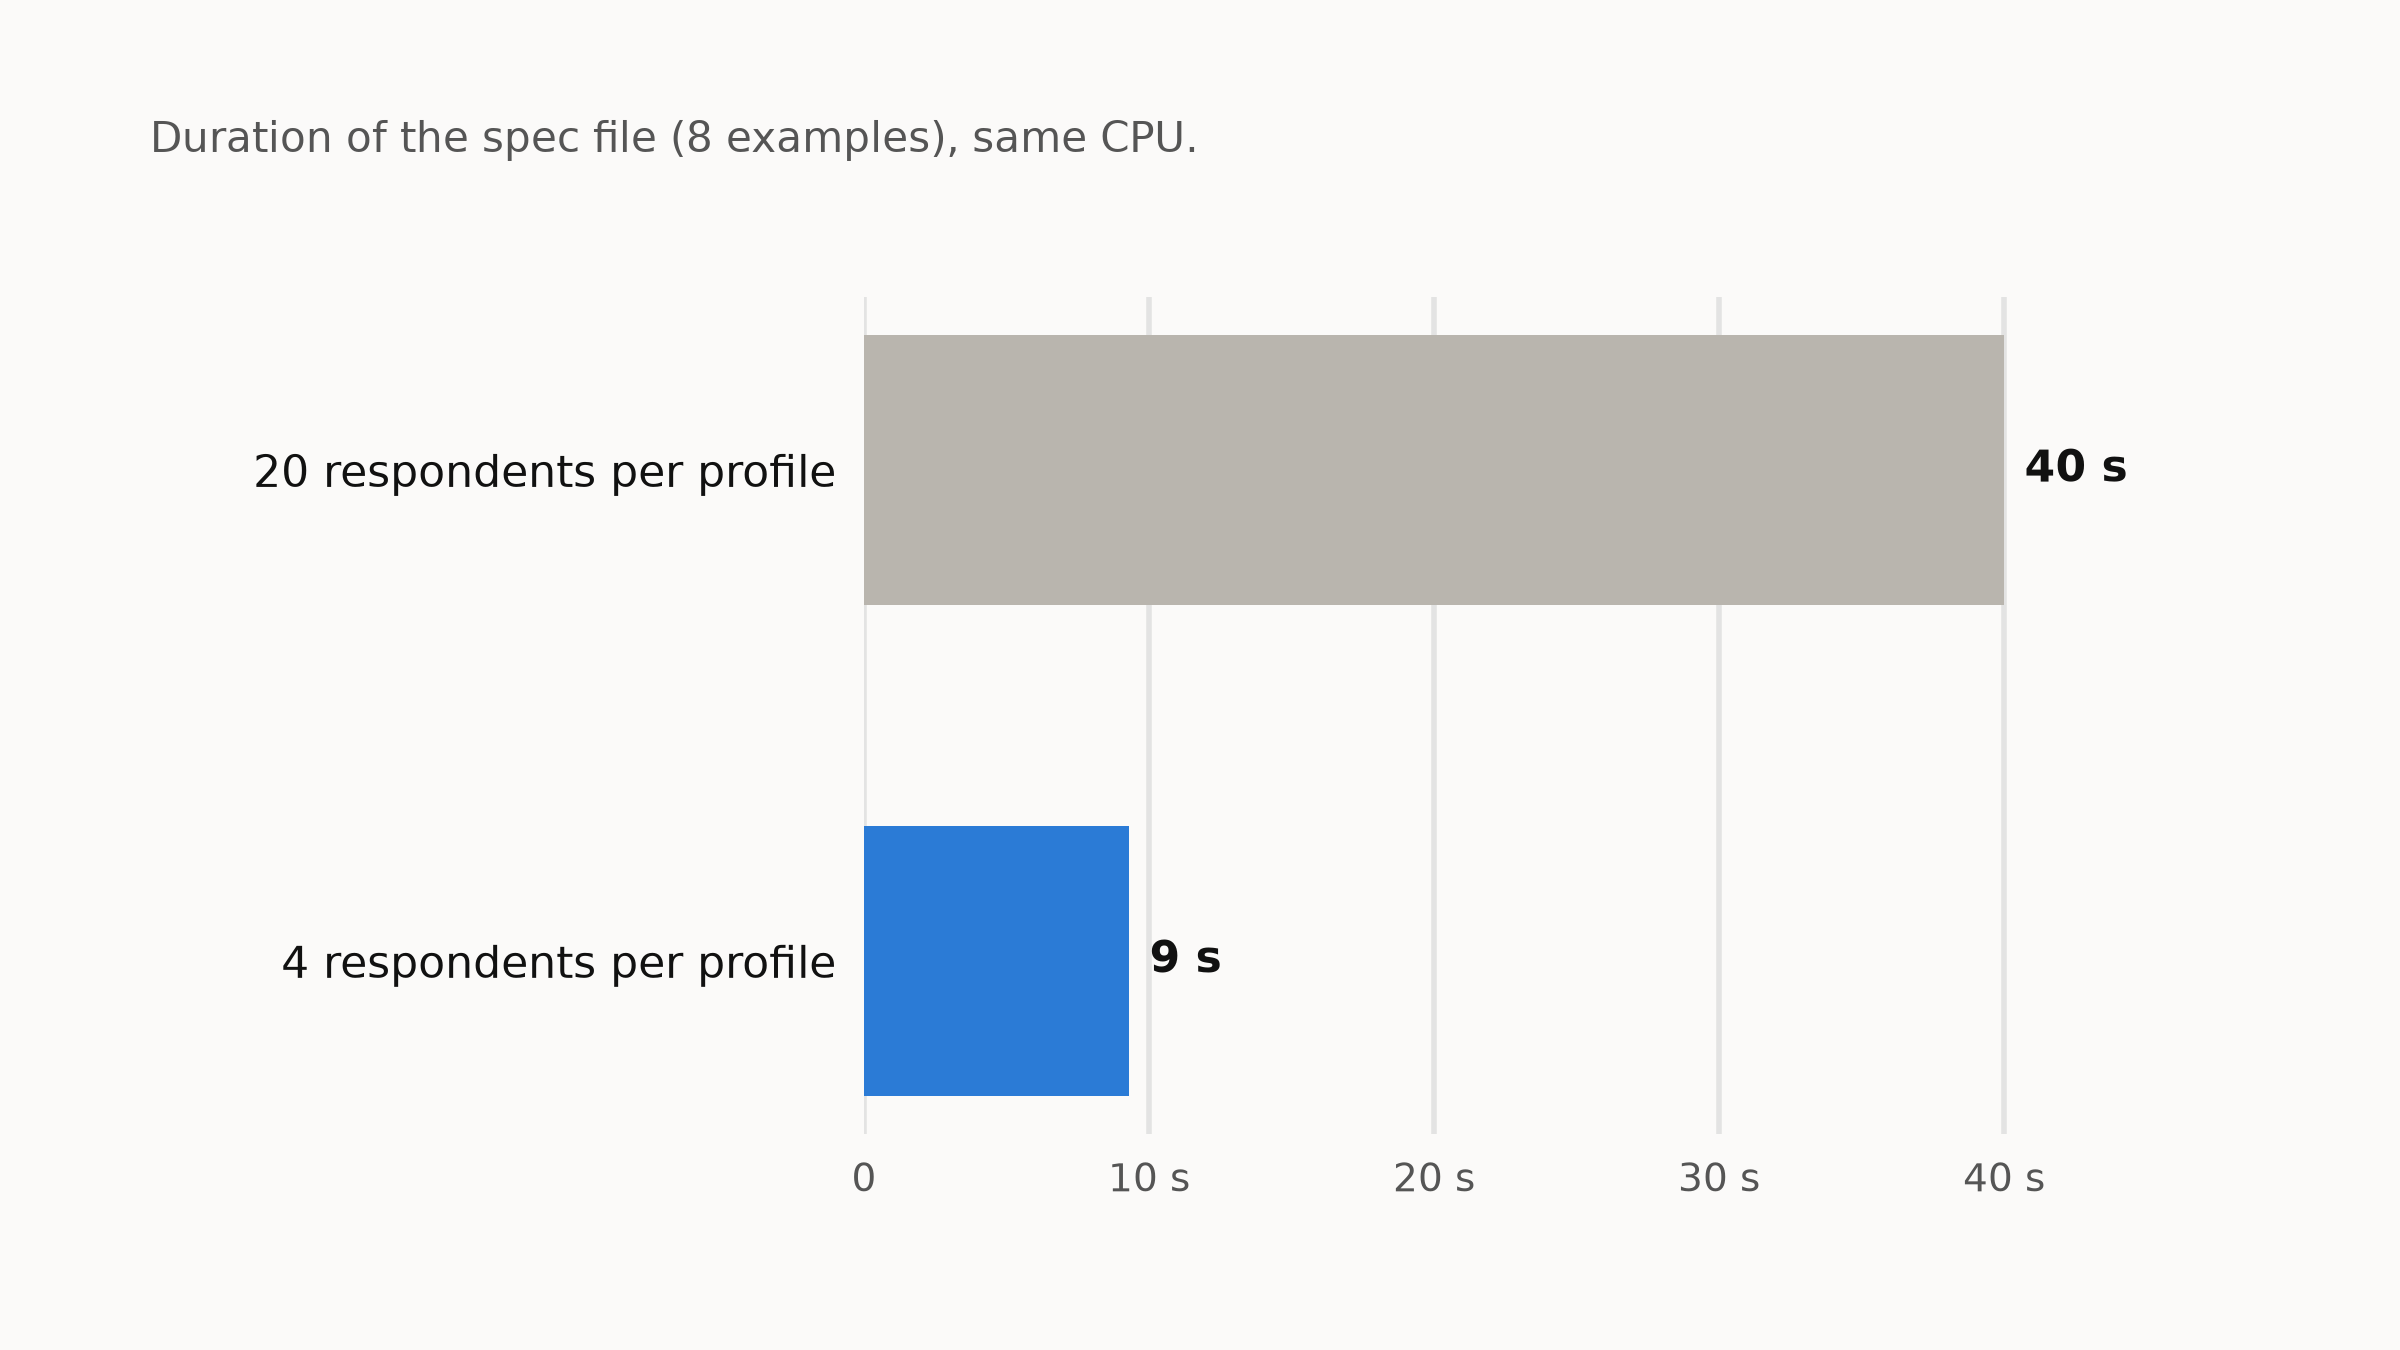
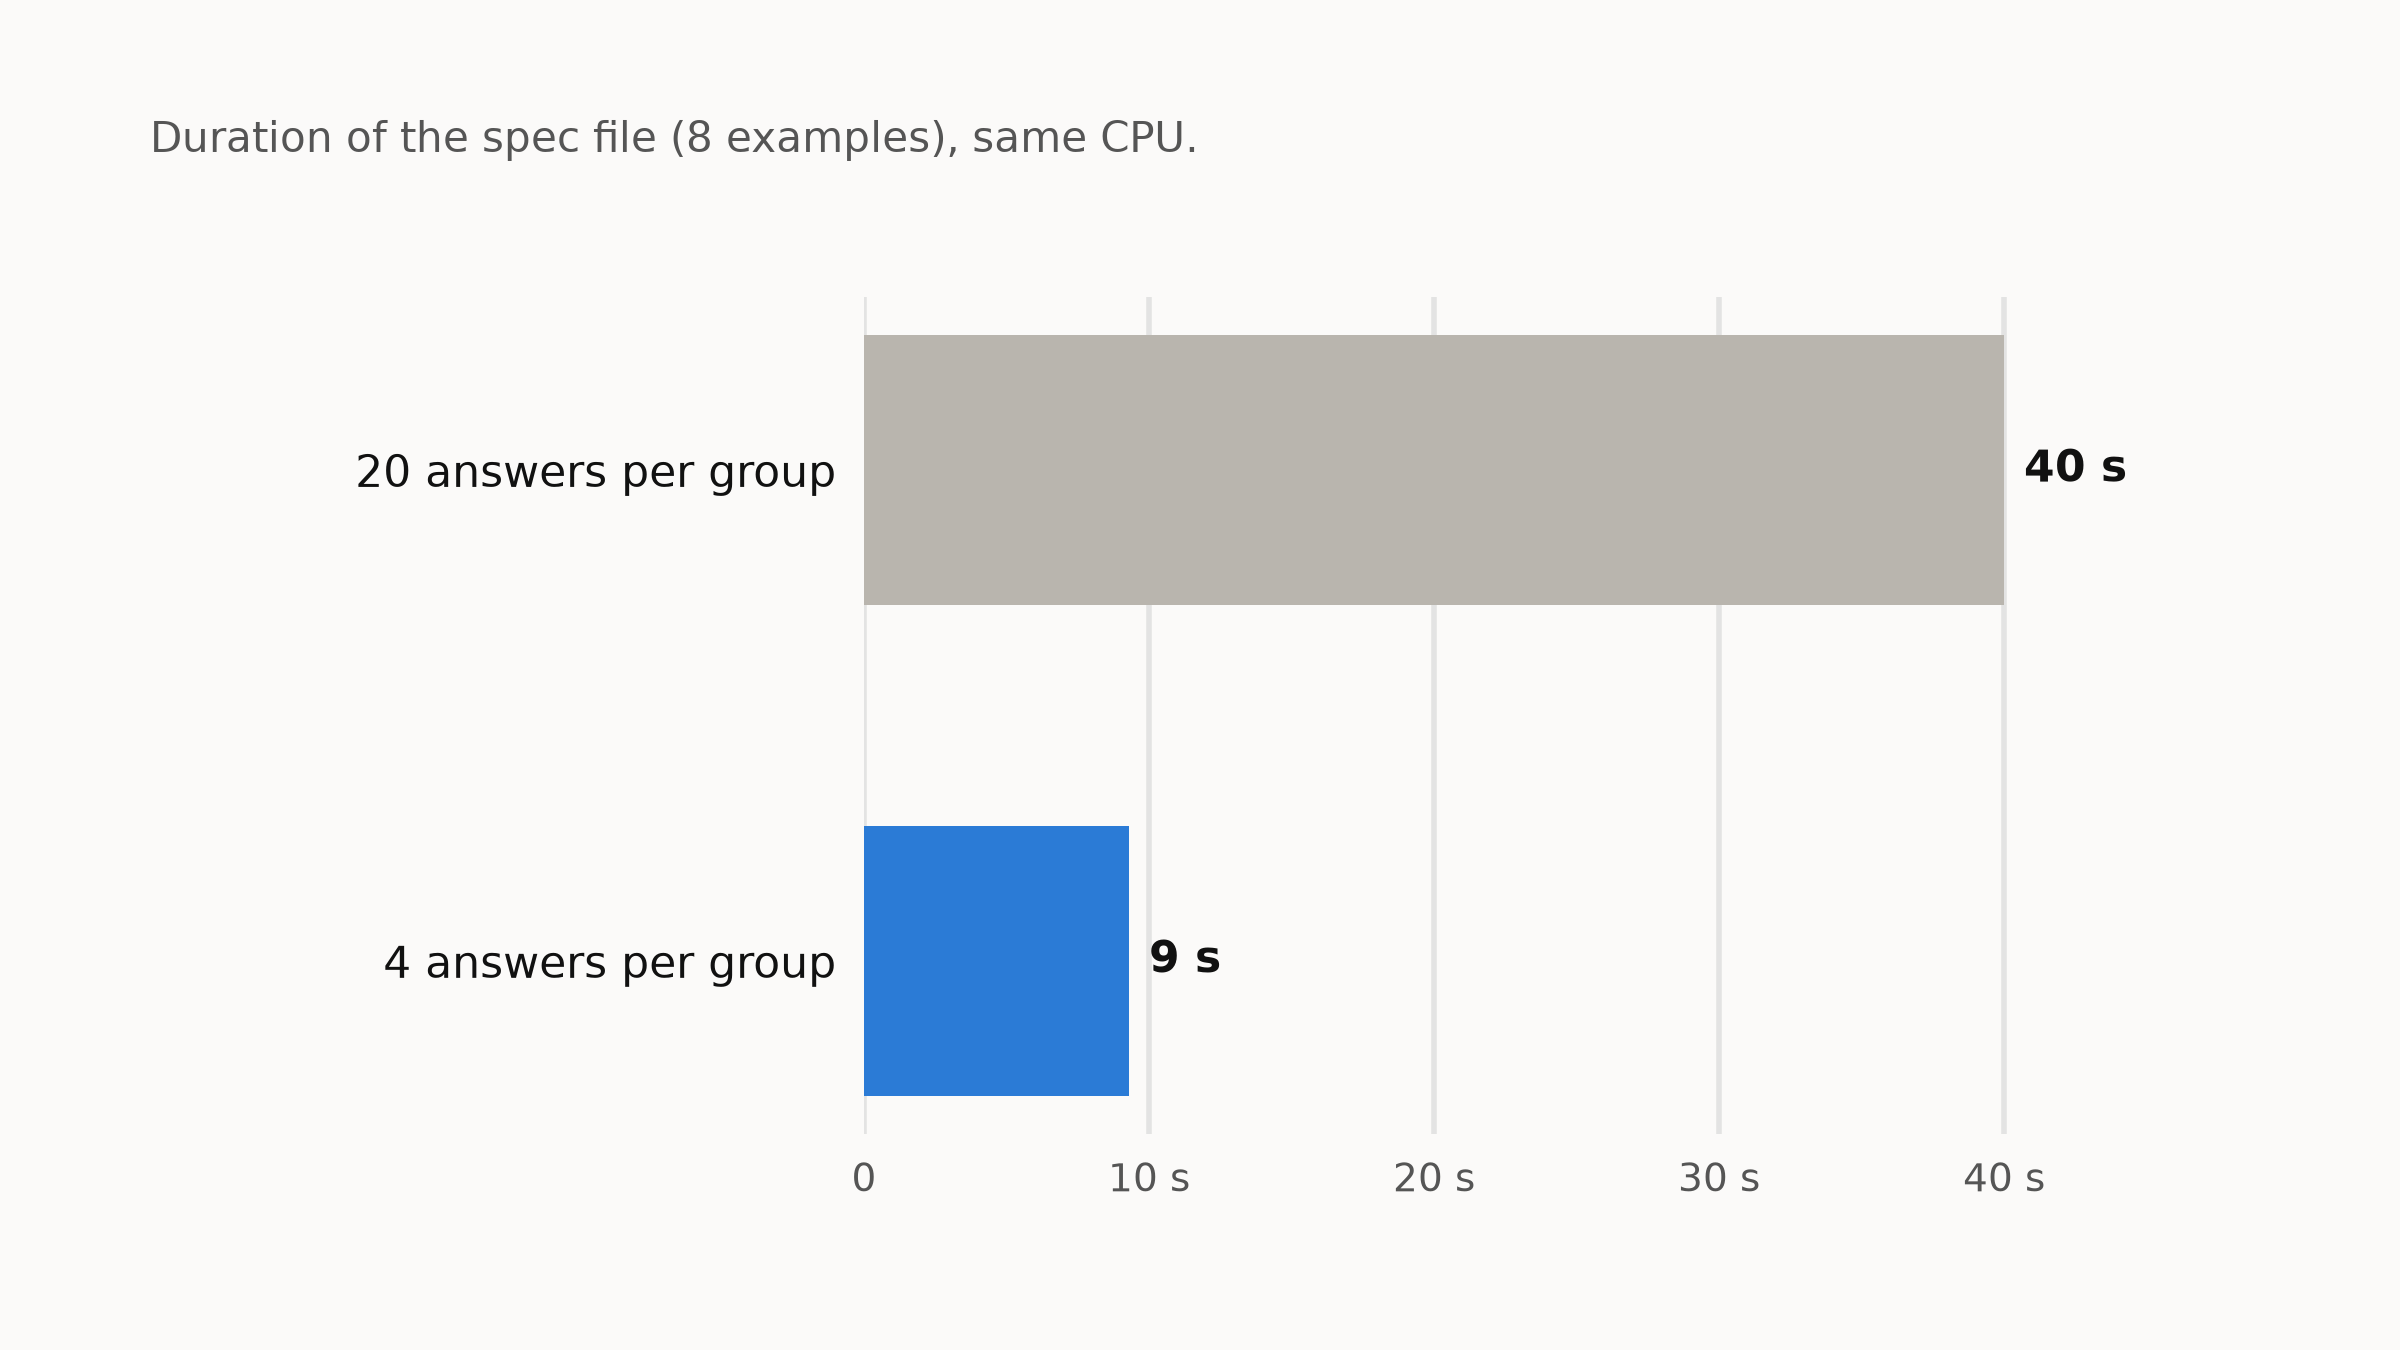
blog: Alléger les specs RSpec, un exemple de pagination pour les données testées, et le contexte métier

Changed region(s): [[0.125, 0.6844, 0.3438, 0.7467], [0.0938, 0.3422, 0.3438, 0.3733]]

diff --git a/content/blog/alleger-les-specs-rspec/fr.md b/content/blog/alleger-les-specs-rspec/fr.md
@@ -11,7 +11,7 @@ Chez un de nos clients, [paralléliser RSpec](/blog/paralleliser-rspec-sur-githu
 
 Et ça se cumule : une factory corrigée accélère tous les specs qui l'utilisent, ceux d'aujourd'hui comme ceux qu'on écrira demain, et un spec écrit avec les bonnes conventions est rapide dès le départ.
 
-On a appliqué quatre conventions de specs. Chacune a été appliquée seule à la même suite de départ, puis les deux versions ont tourné l'une après l'autre sur une même machine. Les gains ne s'additionnent donc pas, et trois d'entre eux sont des estimations.
+L'app de ce client sert à faire des enquêtes en ligne : un compte crée des questionnaires, des gens y répondent, et l'app analyse les réponses. On a appliqué quatre conventions de specs. Chacune a été appliquée seule à la même suite de départ, puis les deux versions ont tourné l'une après l'autre sur une même machine. Les gains ne s'additionnent donc pas, et trois d'entre eux sont des estimations.
 
 ![Secondes gagnées sur toute la suite par chaque convention, appliquée seule à la même suite de départ](gains-fr.png "Une barre par convention, chacune contre la même suite de départ : les barres ne s'additionnent pas.")
 
@@ -87,7 +87,7 @@ factory :user do
 end
 ```
 
-Un questionnaire créé dans un spec, c'était donc aussi deux comptes, deux `mailing_account` et un owner, même quand le spec ne regardait que le questionnaire. Un défaut de factory se paie dans chaque spec qui utilise la factory, et dans chaque factory qui l'associe : 5 540 `mailing_account` étaient créés, dont 18 seulement demandés directement par un spec.
+Un questionnaire créé dans un spec, c'était donc aussi deux comptes, deux `mailing_account` (les réglages d'envoi d'emails d'un compte) et un owner (le user qui a créé le questionnaire), même quand le spec ne regardait que le questionnaire. Un défaut de factory se paie dans chaque spec qui utilise la factory, et dans chaque factory qui l'associe : 5 540 `mailing_account` étaient créés, dont 18 seulement demandés directement par un spec.
 
 La correction : l'owner n'a plus de compte, le `mailing_account` devient un trait qu'on demande, et les enregistrements enfants réutilisent le questionnaire de leur parent au lieu d'en créer un autre.
 
@@ -114,24 +114,24 @@ Les factories des users staff n'ont plus de compte par défaut ; un spec qui en 
 
 ## Ne créer que les enregistrements testés
 
-Certains specs créaient beaucoup plus de données que ce qu'ils vérifiaient.
-
-Par exemple, un import consomme des crédits : 1 crédit par tranche de 1 000 répondants, arrondi au-dessus. Pour vérifier cet arrondi, il faut dépasser une tranche, donc le spec importait 1 500 répondants et vérifiait que ça coûtait 2 crédits. Mais ce qu'on teste, c'est l'arrondi, pas le volume. Le temps du spec, on ramène la tranche à 2 répondants avec `stub_const` : 3 répondants donnent le même arrondi à 2 crédits.
+Certains specs créaient beaucoup plus de données que ce qu'ils vérifiaient. Le cas typique, c'est un seuil écrit dans le code. Pour tester une pagination à 20 éléments par page, un spec crée 45 éléments pour obtenir trois pages. Mais ce qu'il vérifie, c'est le découpage, pas le volume : le temps du spec, on ramène la page à 2 éléments avec `stub_const`, et 5 éléments donnent les mêmes trois pages.
 
 ```ruby
-# avant
-let(:respondent_count) { 1500 }
-let(:questions) { [build_parsed_question(cell_values: Array.new(1500, 'a'))] }
+# avant : 45 commandes pour obtenir 3 pages de 20
+before { create_list(:order, 45) }
 
-# après : 2 répondants par crédit, même arrondi, 3 lignes au lieu de 1 500
-let(:respondent_count) { 3 }
-let(:questions) { [build_parsed_question(cell_values: %w[a a a])] }
-before { stub_const('Credits::Recalculate::Quantitative::RESPONDENTS_PER_BUCKET', 2) }
+# après : des pages de 2, et 5 commandes suffisent pour 3 pages
+before do
+  stub_const('Order::PER_PAGE', 2)
+  create_list(:order, 5)
+end
+
+it { expect(Order.page(3).count).to eq(1) }
 ```
 
-Même idée ailleurs : un rapport créait 20 répondants par profil, alors que 4 suffisent pour vérifier ce qu'il calcule. Son fichier de spec passe de 40 à 9 s :
+Chez notre client, c'était le même motif : un import coûte 1 crédit par tranche de 1 000 réponses, et le spec en importait 1 500 pour vérifier l'arrondi au crédit supérieur. Avec une tranche ramenée à 2, 3 réponses suffisent. Un autre spec créait 20 réponses par groupe, alors que 4 suffisent à vérifier ses calculs. Son fichier passe de 40 à 9 s :
 
-![Durée du spec du rapport, avec 20 puis 4 répondants par profil](minimal-fr.png "Mêmes 8 exemples, mêmes vérifications.")
+![Durée d'un fichier de spec, avec 20 puis 4 réponses par groupe](minimal-fr.png "Mêmes 8 exemples, mêmes vérifications.")
 
 Sur les 4 fichiers concernés, le profil de chaque fichier donne un gain d'environ 42 s, une estimation. C'est moins que l'écart entre deux mesures du même code (50 à 100 s) : sur toute la suite, on ne le voit pas, il faut mesurer fichier par fichier.
 

diff --git a/content/blog/alleger-les-specs-rspec/en.md b/content/blog/alleger-les-specs-rspec/en.md
@@ -11,7 +11,7 @@ At one of our clients, [parallelizing RSpec](/en/blog/parallelizing-rspec-on-git
 
 And it compounds: a fixed factory speeds up every spec that uses it, today's and the ones we'll write tomorrow, and a spec written with the right conventions is fast from the start.
 
-We applied four spec conventions. Each one was applied alone to the same starting suite, then both versions ran one after the other on the same machine. So the gains don't add up, and three of them are estimates.
+This client's app runs online surveys: an account creates questionnaires, people answer them, and the app analyzes the answers. We applied four spec conventions. Each one was applied alone to the same starting suite, then both versions ran one after the other on the same machine. So the gains don't add up, and three of them are estimates.
 
 ![Seconds saved on the whole suite by each convention, applied alone to the same starting suite](gains-en.png "One bar per convention, each against the same starting suite: the bars don't add up.")
 
@@ -87,7 +87,7 @@ factory :user do
 end
 ```
 
-So a survey created in a spec also meant two accounts, two `mailing_account`s and an owner, even when the spec only looked at the survey. A factory default is paid for in every spec that uses the factory, and in every factory that associates it: 5,540 `mailing_account`s were created, only 18 of them requested directly by a spec.
+So a survey created in a spec also meant two accounts, two `mailing_account`s (an account's email sending settings) and an owner (the user who created the survey), even when the spec only looked at the survey. A factory default is paid for in every spec that uses the factory, and in every factory that associates it: 5,540 `mailing_account`s were created, only 18 of them requested directly by a spec.
 
 The fix: the owner no longer has an account, `mailing_account` becomes a trait you ask for, and child records reuse their parent's survey instead of creating another one.
 
@@ -114,24 +114,24 @@ Staff user factories no longer have an account by default; a spec that needs one
 
 ## Only create the records under test
 
-Some specs created much more data than they checked.
-
-For example, an import consumes credits: 1 credit per block of 1,000 respondents, rounded up. To check that rounding, you have to go past a block, so the spec imported 1,500 respondents and checked that it cost 2 credits. But what we test is the rounding, not the volume. For the duration of the spec, we bring the block down to 2 respondents with `stub_const`: 3 respondents give the same rounding to 2 credits.
+Some specs created much more data than they checked. The typical case is a threshold written in the code. To test pagination at 20 items per page, a spec creates 45 items to get three pages. But what it checks is the split, not the volume: for the duration of the spec, we bring the page size down to 2 with `stub_const`, and 5 items give the same three pages.
 
 ```ruby
-# before
-let(:respondent_count) { 1500 }
-let(:questions) { [build_parsed_question(cell_values: Array.new(1500, 'a'))] }
+# before: 45 orders to get 3 pages of 20
+before { create_list(:order, 45) }
 
-# after: 2 respondents per credit, same rounding, 3 rows instead of 1,500
-let(:respondent_count) { 3 }
-let(:questions) { [build_parsed_question(cell_values: %w[a a a])] }
-before { stub_const('Credits::Recalculate::Quantitative::RESPONDENTS_PER_BUCKET', 2) }
+# after: pages of 2, and 5 orders are enough for 3 pages
+before do
+  stub_const('Order::PER_PAGE', 2)
+  create_list(:order, 5)
+end
+
+it { expect(Order.page(3).count).to eq(1) }
 ```
 
-Same idea elsewhere: a report created 20 respondents per profile, when 4 are enough to check what it computes. Its spec file goes from 40 to 9 s:
+At our client, it was the same pattern: an import costs 1 credit per block of 1,000 answers, and the spec imported 1,500 of them to check the rounding up to the next credit. With the block brought down to 2, 3 answers are enough. Another spec created 20 answers per group, when 4 are enough to check its calculations. Its file goes from 40 to 9 s:
 
-![Duration of the report spec, with 20 then 4 respondents per profile](minimal-en.png "Same 8 examples, same checks.")
+![Duration of a spec file, with 20 then 4 answers per group](minimal-en.png "Same 8 examples, same checks.")
 
 Across the 4 files involved, each file's profile puts the gain at about 42 s, an estimate. That's less than the gap between two measurements of the same code (50 to 100 s): on the whole suite you can't see it, you have to measure file by file.
 
